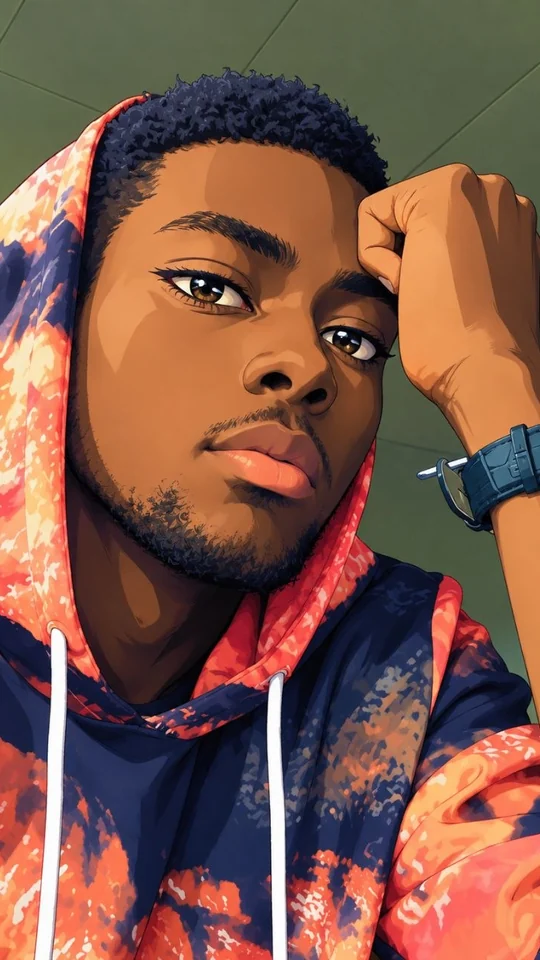
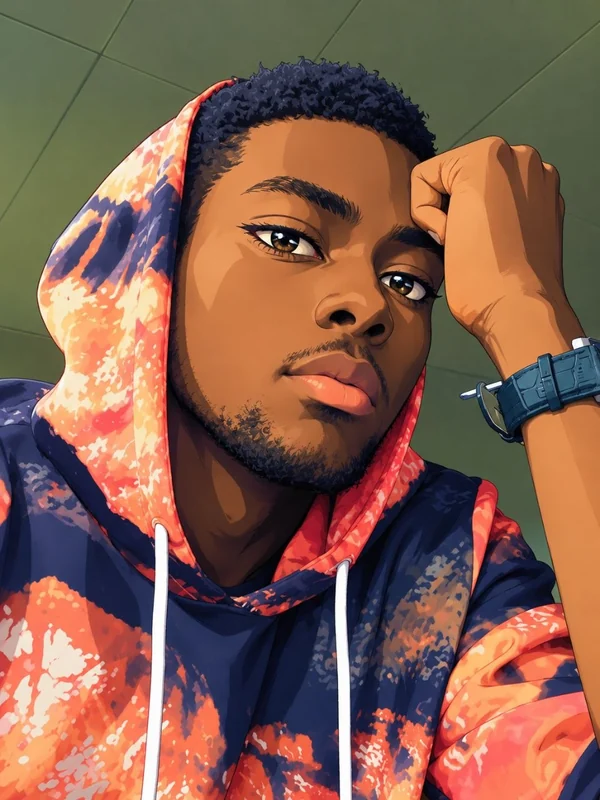
Cartes de Maître du jeu : cadre « couverture de manga » porté dans l'app (dessins 3:4, titre vertical, hanko 神 / 封)

diff --git a/packages/ui/src/styles.css b/packages/ui/src/styles.css
@@ -26,6 +26,15 @@
   src: url('./polices/dela-gothic-kanji-nen.woff2') format('woff2');
   unicode-range: U+4F5C, U+5177, U+51FA, U+5316, U+5909, U+5F37, U+5FF5, U+64CD, U+653E, U+7279, U+73FE, U+7CFB, U+7DF4, U+8CEA;
 }
+/* Kanji des cartes de Maître du jeu (神 Jarvis, 封 Ange), même police : moins de 1 Ko. */
+@font-face {
+  font-family: 'Dela Gothic One';
+  font-style: normal;
+  font-weight: 400;
+  font-display: swap;
+  src: url('./polices/dela-gothic-kanji-gm.woff2') format('woff2');
+  unicode-range: U+5C01, U+795E;
+}
 
 :root {
   color-scheme: light;
@@ -242,33 +251,64 @@ button:disabled { opacity: 0.45; cursor: not-allowed; }
   .gi-carte:is(.f-sort, .f-objet) .c-filigrane { opacity: 0.35; }
 }
 
-/* Carte de Maître du jeu (RG-8.15) : photo entière 9:16 sur toute la hauteur, nom en or le long du bord.
+/* Carte de Maître du jeu (RG-8.15), « couverture de manga » (validée par Sivraj le 2026-10-17) : le dessin 3:4
+   remplit la carte, cerné d'encre et d'un filet d'or ; titre vertical noir et or accroché en haut, côté opposé au
+   visage, ombre décalée à la couleur du dessin ; hanko rouge au kanji de la carte ; trame de manga au pied.
    En écriture verticale, `cqi` suivrait la hauteur du conteneur : les tailles sont en `cqw`. */
-.gi-carte.f-gm { color: var(--encre); }
+.gi-carte.f-gm { color: var(--encre); --accent: #ff6a3d; }
+.gi-carte.f-gm.gm-ange { --accent: #2f6dff; }
 .gi-carte.f-gm .c-cadre {
-  background: #0d0d0f repeating-linear-gradient(135deg, rgba(215, 178, 90, 0.13) 0 0.5cqw, transparent 0.5cqw 3.2cqw);
-  box-shadow: inset 0 0 0 0.8cqw #000, inset 0 0 0 1.6cqw var(--or), inset 0 0 0 2.2cqw #0d0d0f, 0 0 0 0.4cqw #000;
-  padding: 4.5cqw 3.5cqw; grid-template-columns: 1fr auto 1fr; grid-template-rows: minmax(0, 1fr); gap: 1.2cqw;
+  display: block; padding: 0; overflow: hidden; background: #0d0d0f;
+  box-shadow: inset 0 0 0 0.9cqw #000, 0 0 0 0.4cqw #000;
 }
 .gi-carte.f-gm .gm-photo {
-  height: 100%; aspect-ratio: 9 / 16; min-height: 0; border-radius: 2.4cqw; overflow: hidden; position: relative;
-  box-shadow: 0 0 0 0.7cqw var(--or), 0 0 0 1.3cqw #000, 0 0 5cqw rgba(255, 216, 119, 0.35);
+  position: absolute; inset: 2.6cqw; border-radius: 2.6cqw; overflow: hidden;
+  box-shadow: 0 0 0 0.7cqw var(--or), 0 0 0 1.2cqw #000;
 }
 .gi-carte.f-gm .gm-photo img { position: absolute; inset: 0; width: 100%; height: 100%; object-fit: cover; display: block; }
-.gi-carte.f-gm .gm-cote {
-  writing-mode: vertical-rl; display: grid; place-items: center; white-space: nowrap; overflow: hidden;
-  font: 400 6.6cqw/1 var(--f-titre); letter-spacing: 0.05em; color: #ffd877; text-transform: uppercase;
-  text-shadow: 0 0 2cqw rgba(255, 216, 119, 0.45);
+/* Trame de manga (points d'encre) qui monte du pied et assombrit sous le numéro. */
+.gi-carte.f-gm .gm-photo::after {
+  content: ''; position: absolute; inset: 0; pointer-events: none;
+  background:
+    radial-gradient(circle, rgba(8, 8, 10, 0.7) 32%, transparent 36%) 0 0 / 2.4cqw 2.4cqw,
+    linear-gradient(to top, rgba(8, 8, 10, 0.85), transparent 22%);
+  -webkit-mask: linear-gradient(to top, #000 0%, rgba(0, 0, 0, 0.6) 14%, transparent 34%);
+  mask: linear-gradient(to top, #000 0%, rgba(0, 0, 0, 0.6) 14%, transparent 34%);
 }
-.gi-carte.f-gm .gm-cote.g { transform: rotate(180deg); }
-.gi-carte.f-gm .gm-cote.d { font: 800 5cqw/1 var(--f-chiffre); letter-spacing: 0.12em; color: var(--or); text-shadow: none; }
-.gi-carte.f-gm .gm-cote .court { display: none; }
+/* Dans un flex vertical, l'axe « ligne » est vertical : `column` pose les colonnes côte à côte. */
+.gi-carte.f-gm .gm-titre {
+  position: absolute; top: 0; left: 7cqw; writing-mode: vertical-rl; white-space: nowrap;
+  display: flex; align-items: flex-start; padding: 5.5cqw 2cqw 4cqw;
+  background: #0d0d0f; color: #ffd877; text-transform: uppercase;
+  box-shadow: inset 0 0 0 0.5cqw var(--or), 1.6cqw 1.6cqw 0 var(--accent);
+  border-radius: 0 0 1.4cqw 1.4cqw;
+}
+.gi-carte.f-gm.gm-ange .gm-titre { left: auto; right: 7cqw; box-shadow: inset 0 0 0 0.5cqw var(--or), -1.6cqw 1.6cqw 0 var(--accent); }
+.gi-carte.f-gm .gm-titre .long { display: flex; flex-direction: column; align-items: flex-start; gap: 1.4cqw; }
+.gi-carte.f-gm .gm-titre b { font: 400 11cqw/1 var(--f-titre); letter-spacing: 0.02em; }
+.gi-carte.f-gm .gm-titre small { font: 400 5cqw/1 var(--f-titre); letter-spacing: 0.06em; color: var(--or); padding-top: 0.6cqw; }
+.gi-carte.f-gm .gm-titre .court { display: none; }
+.gi-carte.f-gm .gm-hanko {
+  position: absolute; right: 8cqw; bottom: 11cqw; width: 15cqw; height: 15cqw; display: grid; place-items: center;
+  background: #c8161d; color: #fff3e6; border-radius: 2cqw; rotate: -7deg;
+  font: 400 10.5cqw/1 var(--f-titre);
+  box-shadow: inset 0 0 0 0.8cqw #c8161d, inset 0 0 0 1.3cqw #fff3e6, 0 1cqw 2cqw rgba(0, 0, 0, 0.45);
+}
+.gi-carte.f-gm.gm-ange .gm-hanko { right: auto; left: 8cqw; rotate: 6deg; }
+.gi-carte.f-gm .gm-pied {
+  position: absolute; left: 7cqw; right: 7cqw; bottom: 5.5cqw; display: flex; justify-content: space-between;
+  font: 800 4.6cqw/1 var(--f-chiffre); letter-spacing: 0.12em; color: #ffd877;
+}
+/* En pochette : le dessin, le nom court sur son bandeau et le hanko. */
 @container (max-width: 130px) {
-  .gi-carte.f-gm .c-cadre { padding: 5cqw 3cqw; gap: 1cqw; grid-template-rows: minmax(0, 1fr); }
-  .gi-carte.f-gm .gm-cote.g { font-size: 10cqw; }
-  .gi-carte.f-gm .gm-cote .long { display: none; }
-  .gi-carte.f-gm .gm-cote .court { display: inline; }
-  .gi-carte.f-gm .gm-cote.d { font-size: 6cqw; }
+  .gi-carte.f-gm .c-cadre { padding: 0; }
+  .gi-carte.f-gm .gm-photo { inset: 4cqw; }
+  .gi-carte.f-gm .gm-titre { left: 9cqw; padding: 6cqw 2.4cqw 5cqw; box-shadow: inset 0 0 0 0.8cqw var(--or), 2cqw 2cqw 0 var(--accent); }
+  .gi-carte.f-gm.gm-ange .gm-titre { right: 9cqw; box-shadow: inset 0 0 0 0.8cqw var(--or), -2cqw 2cqw 0 var(--accent); }
+  .gi-carte.f-gm .gm-titre .long, .gi-carte.f-gm .gm-pied { display: none; }
+  .gi-carte.f-gm .gm-titre .court { display: inline; font: 400 16cqw/1 var(--f-titre); }
+  .gi-carte.f-gm .gm-hanko { width: 22cqw; height: 22cqw; font-size: 15cqw; bottom: 8cqw; right: 8cqw; }
+  .gi-carte.f-gm.gm-ange .gm-hanko { left: 8cqw; }
 }
 
 /* Dos de carte commun */

diff --git a/packages/ui/src/CarteNoire.tsx b/packages/ui/src/CarteNoire.tsx
@@ -1,25 +1,40 @@
-// Carte de Maître du jeu (RG-8.15, amendement du 2026-10-15) : cadre d'encre filé d'or, photo du créateur entière
-// (9:16) sur toute la hauteur, nom en lettres d'or le long du bord gauche, numéro « GM·01 · GM-1 » à droite.
-// Pas de texte d'effet sur la carte (demande de Sivraj : la photo passe avant les mots) ; il est dans la fiche.
+// Carte de Maître du jeu (RG-8.15, amendement du 2026-10-15), « couverture de manga » (validée le 2026-10-17) :
+// le dessin du créateur remplit la carte, titre vertical noir et or accroché en haut (nom court en grand, reste du
+// nom en petit), hanko rouge au kanji de la carte, « GM·01 · GM-1 » au pied. Pas de texte d'effet sur la carte
+// (demande de Sivraj : le dessin passe avant les mots) ; il est dans la fiche.
 import { NOMS_CARTES_GM, type CarteGm } from '@gq/shared';
 
 const PHOTOS = import.meta.glob<string>('./cartes/gm/*.webp', { eager: true, query: '?url', import: 'default' });
 export const photoCarteGm = (gm: CarteGm): string | undefined => PHOTOS[`./cartes/gm/${gm}.webp`];
 
+/** Kanji du hanko : 神 (dieu) pour Jarvis tout-puissant, 封 (sceau) pour Le Sceau d'Ange. */
+const KANJI: Record<CarteGm, string> = { jarvis: '神', ange: '封' };
+
 export function CarteNoire({ gm, className }: { gm: CarteGm; className?: string }) {
   const d = NOMS_CARTES_GM[gm];
+  const i = d.nom.indexOf(d.court);
+  const avant = d.nom.slice(0, i).trim();
+  const apres = d.nom.slice(i + d.court.length).trim();
   return (
-    <div className={`gi-carte f-gm${className ? ` ${className}` : ''}`} role="img" aria-label={`${d.nom}, carte de Maître du jeu`}>
+    <div className={`gi-carte f-gm gm-${gm}${className ? ` ${className}` : ''}`} role="img" aria-label={`${d.nom}, carte de Maître du jeu`}>
       <div className="c-cadre">
-        <span className="gm-cote g" aria-hidden="true">
-          <span className="long">{d.nom}</span>
-          <span className="court">{d.court}</span>
-        </span>
         <span className="gm-photo">
           <img src={photoCarteGm(gm)} alt="" decoding="async" draggable={false} />
         </span>
-        <span className="gm-cote d" aria-hidden="true">
-          {d.numero} · GM-1
+        <span className="gm-titre" aria-hidden="true">
+          <span className="long">
+            {avant && <small>{avant}</small>}
+            <b>{d.court}</b>
+            {apres && <small>{apres}</small>}
+          </span>
+          <span className="court">{d.court}</span>
+        </span>
+        <span className="gm-hanko" lang="ja" aria-hidden="true">
+          {KANJI[gm]}
+        </span>
+        <span className="gm-pied" aria-hidden="true">
+          <span>{d.numero}</span>
+          <span>GM-1</span>
         </span>
       </div>
     </div>

diff --git a/docs/PROGRESS.md b/docs/PROGRESS.md
@@ -71,7 +71,7 @@
 ## Reprise de session (lire en premier)
 - **Cartes de Maître du jeu (2026-10-15) : CODÉES (moteur, API, app) et vérifiées avec la vraie API, en attente de l'essai de Sivraj ; console GM (don, raid, enchère, réglage) et écran géant à faire en Phase 4.** Historique : décisions de Sivraj : cadre noir hors des 100 désignées ; obtention par toutes les voies (scan au hasard `chanceCarteGmPct` 0,5 %, raid, enchère, évènement, don du GM) ; uniques, usage unique puis retour au Maître du jeu ; s'échangent et se volent (Vol seulement). **« Jarvis tout-puissant »** (prénom de Sivraj) = Décret (carte désignée de son choix, sauf la SS, reprise à un détenteur au hasard si limite atteinte) **et** Jugement (joueurs à portée gelés 3 min, lanceur intouchable 10 min), rien ne l'arrête, annonce à tous. **« Le Sceau d'Ange »** (amie de Sivraj) = Book d'un joueur à portée scellé 5 min (ni scan, ni sort, ni échange, ni rangement), Mur défensif et Zetsu sans effet, puis immunité 5 min. Choix de Claude **confirmés par Sivraj** : pas la SS au Décret (comme L'épée du vol) ; cartes hors des 8 places des objets. Photos : `docs/images-cartes/brutes/Images GM/` (hors dépôt) ; portraits composés en 16:9 (photo entière au centre sur la même photo floutée et assombrie, la photo en portrait ne tenait pas en 16:9) → `docs/images-cartes/decoupees/gm/{jarvis,ange}.webp`. **Accord d'Ange pour sa photo : confirmé par Sivraj le 2026-10-15.** Prototype `docs/prototype/cartes-gm.html`, artifact https://claude.ai/artifact/3kHM8bNHw5h8YVMC2CS8Dt (version 1) : les deux cartes (cadre noir filé d'or, coin GM-1, « GM·01 / GM·02 »), page Objets du Book (rangée à filet d'or), Jarvis : choix du Décret (cartes manquantes, « Limite atteinte : reprise ») → nuit dorée, la carte monte, « JARVIS A PARLÉ » (rayons, éclair, secousse, vibration), onde d'or qui gèle Kirua / Leolio / Biscuit, carte choisie qui se matérialise sous une ligne d'or (« Reprise à Kirua »), boîte du jeu, bandeau noir et or « Intouchable 10:00 » ; vue des autres : annonce dorée « Jarvis a parlé » + bandeau givré « Gelé 3:00 » ; Sceau : choix de la cible (à portée ; protégé = grisé avec décompte) → nuit rouge, « SCEAU ! », Book de la cible, chaînes en croix, sceau 封 qui s'abat ; vue de la cible : bords rouges qui battent, « Ange a scellé ton Book », bandeau rouge « Book scellé 5:00 ». Vérifié dans Chrome. **Version 2 (2026-10-15), demande de Sivraj : photos entières, bien visibles, stylées, quitte à retirer des mots** → la carte noire n'a plus de tête ni de texte : photo entière en 9:16 (bandes noires de la capture d'Ange retirées ; `decoupees/gm/*.webp` en 540 × 960) sur toute la hauteur, cernée d'or ; nom en lettres d'or verticales le long du bord gauche (« JARVIS » / « ANGE » seuls en pochette), « GM·01 · GM-1 » à droite ; fond d'encre strié d'or. L'effet est dit dans la fiche, plus sur la carte. Leçon : en `writing-mode: vertical-rl`, `cqi` se calcule sur la hauteur du conteneur → tailles en `cqw`.
   - **Codé le 2026-10-15** (« oui elle est d'accord, ok pour le reste, vas-y »). **Moteur** `packages/engine/src/gm.ts` (+ `gm.test.ts`, 20 tests) : élément du Book `kind: 'gm'` (hors pages, comme les objets), `carteGmDeScan`, `cartesDuDecret`, `jouerJarvis` (Décret : création sous la limite, sinon reprise à un détenteur au hasard malgré Coffre et carte cachée, jamais une contrefaçon ni un Book gelé ; Jugement : `figeJusqua` 3 min aux joueurs à portée malgré immunité, Zetsu, protections ; lanceur `intouchableJusqua` 10 min), `jouerSceau` (`scelleJusqua` 5 min puis immunité 5 min ; refus intouchable, immunisé, hors portée, Book gelé), `blocageGm` (scellé : scan, sort, échange, rangement, objet ; figé : scan, sort, échange), `meilleurChasseur` (raid : `coups` par joueur), `rendreCartesGm` / `doitRendreCartesGm` (RG-8.17). Branché dans `spells.ts` (lanceur figé/scellé refusé, cible intouchable refusée pour tous les sorts ciblés, Vol `viserCarteGm`), `scan.ts`, `trades.ts` (cartes GM échangeables). Réglage `chanceCarteGmPct` (0,5) dans `params.ts`. **API** : migration `0016_cartes_gm` (table `cartes_gm` unique par partie et type, `joueur_id` null = au Maître du jeu ; colonnes `fige_jusqua`, `scelle_jusqua`, `intouchable_jusqua` ; `encheres.carte_id` nullable + `carte_gm`) ; `core/state.ts` (chargement / enregistrement, `ligneCarteGm`, `cartesGmLibres`, `donnerCarteGm`) ; `routes/cartesGm.ts` : `GET /cartes-gm/decret`, `POST /cartes-gm/jouer`, `POST /cartes-gm/donner` (GM, motif), `GET /cartes-gm` (équipe) ; scan (tirage au hasard, fil de l'écran), raid (`carteGm` au lancement, au meilleur chasseur), enchères (lot « gm:<type> », GM seulement), tâche planifiée (retour à l'abandon / disqualification / 20 min d'inactivité), `/moi` (`etatsGm`), livre (`cartesGm`), échanges / livre / objets bloqués (`livre_scelle`). Évènements : `carte_gm_jouee` (à tous), `carte_gm_recue`, `carte_gm_obtenue`, `carte_gm_rendue`. Tests `routes/cartesGm.test.ts` (9). **App** : `@gq/ui` `CarteNoire` (+ styles, portraits dans `packages/ui/src/cartes/gm/`), `NOMS_CARTES_GM` dans `@gq/shared` ; Book : page « Maître du jeu » à la fin (papier noir, filet d'or, seulement si le joueur en a ; `genreDePage` → `'gm'`), fiche (carte, effet, « Jouer la carte ») ; `ecrans/gm/JouerGm.tsx` (choix du Décret ou de la cible, refus en clair), `CinematiqueGm.tsx` (Jarvis, Sceau, Sceau reçu, portés du prototype), `BandeauxGm.tsx` (Intouchable, Figé, Book scellé) ; `useJeu` : annonce « Jarvis a parlé », file des Sceaux reçus ; tirage (`genre: 'gm'`, éclat doré, double impact, tampon « GM ») ; Antokiba (lot et « ADJUGÉ ! » en carte noire). `lib/cartesGm.ts` (+ 7 tests). **Vérifié dans Chrome avec la vraie API** (serveur hors dépôt `apps/api/.data/dev-gm.ts` : Gon détient les deux cartes, Kirua et Leolio à côté ; routes `/dev/gon`, `/dev/kirua`, `/dev/frais`, `/dev/sceau`, `/dev/rendre` ; page de test à GPS simulé supprimée ensuite) : page « Maître du jeu », fiches, Décret (choix, cinématique, carte rangée « Décret de Jarvis », bandeau « Intouchable »), Sceau (cibles, cinématique), Sceau reçu (bords rouges, bandeau « Book scellé »), vue de Kirua (annonce, bandeau « Figé »). Corrigés en vérifiant : page « Maître du jeu » trop courte (cases vides ajoutées), texte de la carte créée invisible dans la nuit, boîte qui couvrait les joueurs figés. Deux fiches ouvertes sans le vouloir pendant des rechargements à chaud de Vite, **non reproduites** avec de vrais clics (à surveiller sur téléphone). Tests : moteur 302, API 202, app 151, ui 5. **Prochaine étape : essai de Sivraj sur téléphone** ; puis, en Phase 4, console GM (don, raid avec carte promise, lot d'enchère, réglage `chanceCarteGmPct`, où sont les cartes) et écran géant (fil « carte_gm », cinématique « Jarvis a parlé »).
-  - **Portraits dessinés style manga (2026-10-17, demande de Sivraj : les photos « ne se marient pas bien avec l'univers »)** : deux nouveaux dessins dans `docs/images-cartes/brutes/Images GM/` (`photo_5951888189456846938_y.jpg` = Jarvis, `…939_y.jpg` = Ange, 960 × 1280, 3:4). En attendant la validation, l'app a déjà les dessins recadrés en 9:16 (540 × 960) dans l'ancien cadre (`packages/ui/src/cartes/gm/`, `decoupees/gm/`). **Cadre version 3 « couverture de manga » proposé** (Sivraj : « tu peux adapter le cadre… le principal c'est qu'elles rendent bien, tout en étant originales ») : le dessin 3:4 remplit toute la carte (marge d'encre, filet d'or), titre vertical noir et or accroché en haut côté opposé au visage (Jarvis à gauche, Ange à droite ; nom court en grand + reste du nom en petit, deux colonnes ; ombre décalée orange pour Jarvis, bleue pour Ange), hanko rouge 神 (Jarvis) / 封 (Ange), trame de manga au pied avec « GM·01 » et « GM-1 » ; en pochette : nom court et hanko seuls. Prototype `docs/prototype/cartes-gm.html` (images 600 × 800), même artifact, version 4. Vérifié dans Chrome. Leçon : en `writing-mode: vertical-rl`, l'axe d'un flex en ligne est vertical → `flex-direction: column` pour poser des colonnes côte à côte. **Prochaine étape : avis de Sivraj, puis portage dans `CarteNoire` (`@gq/ui`, classe `gm-<id>`, kanji dans `NOMS_CARTES_GM`) et images 3:4 dans l'app.**
+  - **Portraits dessinés style manga (2026-10-17, demande de Sivraj : les photos « ne se marient pas bien avec l'univers »)** : deux nouveaux dessins dans `docs/images-cartes/brutes/Images GM/` (`photo_5951888189456846938_y.jpg` = Jarvis, `…939_y.jpg` = Ange, 960 × 1280, 3:4). En attendant la validation, l'app a déjà les dessins recadrés en 9:16 (540 × 960) dans l'ancien cadre (`packages/ui/src/cartes/gm/`, `decoupees/gm/`). **Cadre version 3 « couverture de manga » proposé** (Sivraj : « tu peux adapter le cadre… le principal c'est qu'elles rendent bien, tout en étant originales ») : le dessin 3:4 remplit toute la carte (marge d'encre, filet d'or), titre vertical noir et or accroché en haut côté opposé au visage (Jarvis à gauche, Ange à droite ; nom court en grand + reste du nom en petit, deux colonnes ; ombre décalée orange pour Jarvis, bleue pour Ange), hanko rouge 神 (Jarvis) / 封 (Ange), trame de manga au pied avec « GM·01 » et « GM-1 » ; en pochette : nom court et hanko seuls. Prototype `docs/prototype/cartes-gm.html` (images 600 × 800), même artifact, version 4. Vérifié dans Chrome. Leçon : en `writing-mode: vertical-rl`, l'axe d'un flex en ligne est vertical → `flex-direction: column` pour poser des colonnes côte à côte. **VALIDÉ par Sivraj le 2026-10-17 (« intègre-le dans l'app comme ça ») et PORTÉ** : `CarteNoire` (`@gq/ui`) : classe `gm-<id>`, kanji du hanko dans le composant (`KANJI`), titre long en deux colonnes (`<small>` + `<b>`), styles dans `packages/ui/src/styles.css` ; dessins 3:4 en 600 × 800 dans `packages/ui/src/cartes/gm/` et `decoupees/gm/` ; police `packages/ui/src/polices/dela-gothic-kanji-gm.woff2` (神 封, 836 octets, extraite de Dela Gothic One japonais de `@fontsource`). Les règles d'ombre des cinématiques (`.tirage-retourne > .gi-carte:not(.dos) .c-cadre`, etc.) ne changent rien de visible sur le bord noir : gardées. Retournement : le tirage (`Tirage.tsx`) retourne déjà la carte noire comme les autres ; la cinématique « Jouer la carte » la montre face visible (choix d'origine, retournement proposé à Sivraj, pas demandé). Vérifié dans Chrome avec la vraie API (`dev-gm.ts`, Vite port 5182, géolocalisation simulée dans la page) : page « Maître du jeu » du Book, fiche, Décret de Jarvis (cinématique jusqu'à la boîte). Tests ui 6, app 151, typecheck ui / player / tracker. **Prochaine étape : essai de Sivraj sur téléphone.**
 - **Images des cartes (tâche 4.0 bis), lancée le 2026-10-15** : Sivraj veut les vraies images de l'anime dans l'app (droits à la charge du client, décision du 2026-10-10). Source : wiki anglais des fans (hunterxhunter.fandom.com). Les fichiers `… (G.I card) =scan=` ne sont **pas** des pages du manga mais des **scans en couleur des cartes officielles** (même mise en page, 740 × 1040 environ) : source retenue, homogène. Le serveur d'images refuse curl (page anti-robot) ; la page `docs/images-cartes/choisir.html` n'affichait rien (le wiki refuse `Special:FilePath` hors de chez lui) ; récupéré par le navigateur de Sivraj (Claude in Chrome, adresses directes `static.wikia.nocookie.net` trouvées par l'API du wiki, `fetch` autorisé) → 208 candidats dans `docs/images-cartes/brutes/wiki/` (hors dépôt, `.gitignore`). **114 / 115 cartes ont un scan** ; sans scan : 037 (image d'anime seulement, à découper à part), Gel, Boussole, Second souffle (créations), Pépite (carte « J10,000 » n° 607, pas encore cherchée). Découpe de l'illustration à fractions fixes (x 0,07–0,93, y 0,178–0,522, rapport ≈ 16:9) → `docs/images-cartes/decoupees/{designee,sort,objet}/<id>.webp`, 640 × 360, 3 Mo en tout ; planche de contrôle `docs/images-cartes/planche.png`. **Format de la fenêtre d'illustration : celui des vraies cartes (≈ 16:9 paysage)**, proposé à Sivraj. **Validé par Sivraj le 2026-10-15 : format 16:9, on garde 047 et 018.** **Prototype publié le 2026-10-15** : `docs/prototype/cartes-illustrees.html` (images d'essai dans `docs/prototype/img-cartes/`), artifact https://claude.ai/artifact/GQEVXqEyjsuKSPw6Smm7Zy (version 1) : carte en grand (vignettes pour changer, contrefaçon grisée), page désignée et page libre du Book (pochettes : le texte disparaît et l'image remplit la carte sous le numéro, recadrée au centre ; nom du sort / de l'objet en bandeau au pied de l'image ; Gel sans image = filigrane), fiche, tirage (la carte se retourne sur son image, rayons A/S/SS). Fenêtre d'illustration `aspect-ratio: 16/9`, `object-fit: cover`, le texte prend la place restante (6,2 cqi). Vérifié dans Chrome. **Prototype VALIDÉ par Sivraj le 2026-10-15** (« j'aime beaucoup, c'est bon »). **INTÉGRÉ le 2026-10-15** : les 114 images dans `packages/ui/src/cartes/<numéro de l'anime>.webp` (`017.webp`, `1007.webp`), chargées par `import.meta.glob` ; `imageCarte(genre, numero, nom)` dans `Carte.tsx` (désignée : seulement si le nom correspond à la banque à ce numéro, une contrefaçon « Contrefaçon de … » garde l'image ; sorts et objets : numéro ≥ 1000) → **aucun changement d'API ni d'appel** : toutes les cartes de l'app (et demain console et écran géant) ont leur image. `Carte` : panneau du bas `.c-bas` toujours présent, fenêtre `.c-art` en 16:9, pochette = image pleine + bandeau du nom. PWA : `globPatterns` avec `webp` (et `svg`, `woff2`) → images en cache à l'installation, Book illustré hors réseau. Tests `packages/ui/src/Carte.test.ts` (5) ; app 144 tests ; vérifié dans Chrome avec la vraie API (serveur `dev-page18.ts`, Vite port 5181) : Book (pochettes illustrées), fiche (grande carte 16:9), onglet Sorts. `pnpm typecheck` échoue seulement dans `apps/staff` (dossier non suivi, déjà là, pas touché). **Toutes les cartes illustrées le 2026-10-15 (demande de Sivraj)** : 037 découpée dans l'image propre du wiki (`Fledgling Athlete (G.I card)`) ; les créations empruntent l'illustration d'un sort de l'anime qu'on n'utilise pas : Gel ← d'abord Stone Throw 1028, refusé par Sivraj (« j'aurais vu un glaçon ou une brise de froid ») : **illustration dessinée par nous** (prismes de glace, flocon, volutes de froid, fond brossé bleu ; source SVG `docs/images-cartes/gel-source.html`, rendue par Edge sans fenêtre), Boussole ← d'abord Magnetic Force 1005, mais c'est le dessin d'Accompagnement (1039) avec un seul personnage (remarqué par Sivraj) : **boussole dessinée par nous** (source `docs/images-cartes/boussole-source.html`), Second souffle ← Recycle 1037 (feuille qui reverdit), Pépite ← la vraie carte 607 « 10000J » (image de l'anime 1999, un peu floue) ; elles gardent « — » pour numéro, image retrouvée par le nom (`imageCreation` dans `Carte.tsx`, tests). Le téléchargement direct `static.wikia.nocookie.net` marche avec un en-tête de navigateur (User-Agent + Referer) → `docs/images-cartes/brutes/wiki2/`. **Contrefaçon démasquée plus visible** (retour de Sivraj : « on ne remarque pas tout de suite ») : en plus du gris hachuré, tampon rouge « CONTREFAÇON » en biais, en couleur, lisible jusqu'en pochette (`styles.css` de `@gq/ui`, `.gi-carte.grisee::after`) ; prototype version 3 (version 4 : boussole). **Images de toutes les cartes et tampon de contrefaçon VALIDÉS par Sivraj le 2026-10-15** (« tout me va »). Reste : import d'image par le GM (console). Ancienne mention : intégration (images servies par les fronts, champ `image` du catalogue, préchargement hors ligne, fenêtre d'illustration fixe dans `Carte`), prototype d'abord.
 - **Page ⑩ VALIDÉE par Sivraj le 2026-10-12 (« continue ») ; page ⑪ sort reçu lancée.** Historique de la ⑩ : Prototype `docs/prototype/pouvoirs-nen.html` validé ; portage commité (`ecrans/sorts/CaseNen.tsx`, `FichePouvoir.tsx`, `Pouvoir.tsx`, `BandeauZetsu.tsx`, `lib/pouvoir.ts` + tests ; `TextureSurprise.tsx` supprimé). Testé avec la vraie API (serveur `apps/api/.data/dev-page10.ts`, routes `/dev/prep {pseudo, nen, spe}` et `/dev/frais` qui rafraîchit les positions de Kirua et Hisoka, sinon « hors radar » après quelques minutes, RG-10.10) : Texture Surprise, Alchimie (y compris l'échec sur contrefaçon), L'épée du vol (carte visée absente → au hasard), Zetsu (bandeau sur toutes les pages), Fortune (pièce « +1 » sur l'onglet Scanner), Émission (cible à 600 m), Échange forcé ; refus = aura éteinte, rien de dépensé. Correction : le décompte du Zetsu passait sous la boîte de dialogue sous ~760 px de haut (aussi dans le prototype), placé entre le cri et la boîte, chiffre réduit sur écran court.
   - **Décidé par Sivraj le 2026-10-12** : Texture Surprise sur un doublon qui est en fait une contrefaçon ignorée (reçue, non démasquée) = comme l'Alchimie : le déguisement échoue, le pouvoir est utilisé ; la carte reste et devient démasquée pour son détenteur (RG-8.9 : une copie devient « Contrefaçon de… » grisée, un doublon déguisé par un autre redevient sa vraie carte). Moteur `transform` (`resultat: 'reussi' | 'contrefacon'`), route `/transformation` (Journal `contrefacon`), scène d'échec (l'encre s'arrête à mi-carte, la carte se fend), tests moteur, API (`transformation.test.ts`) et client ; vérifié dans Chrome.
